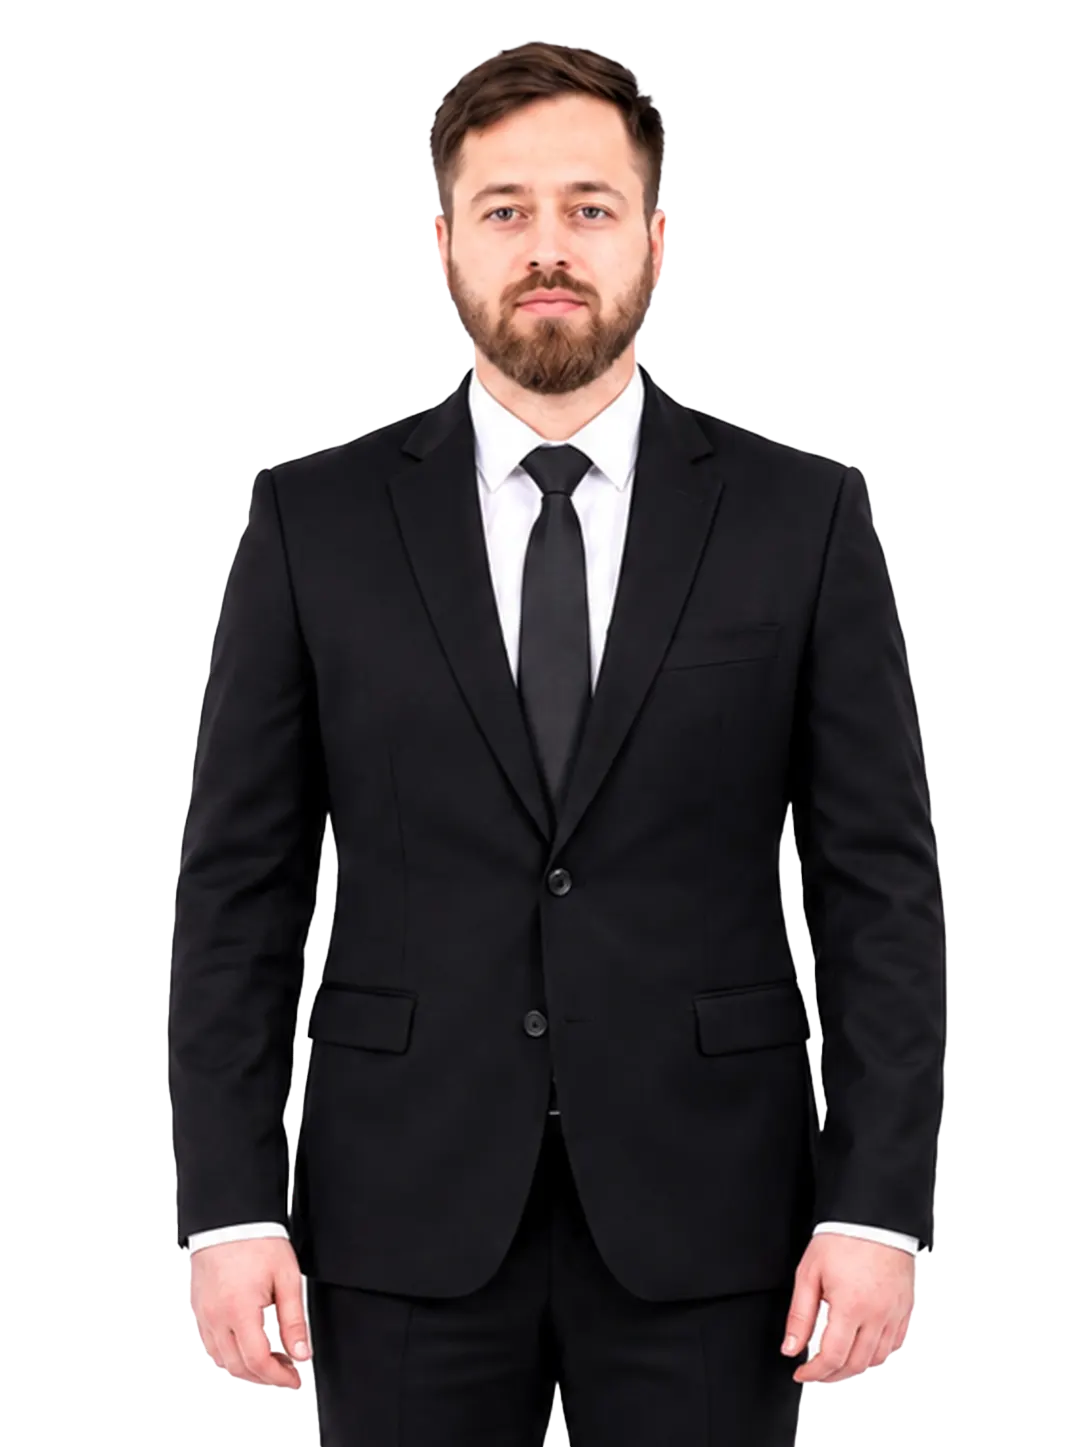
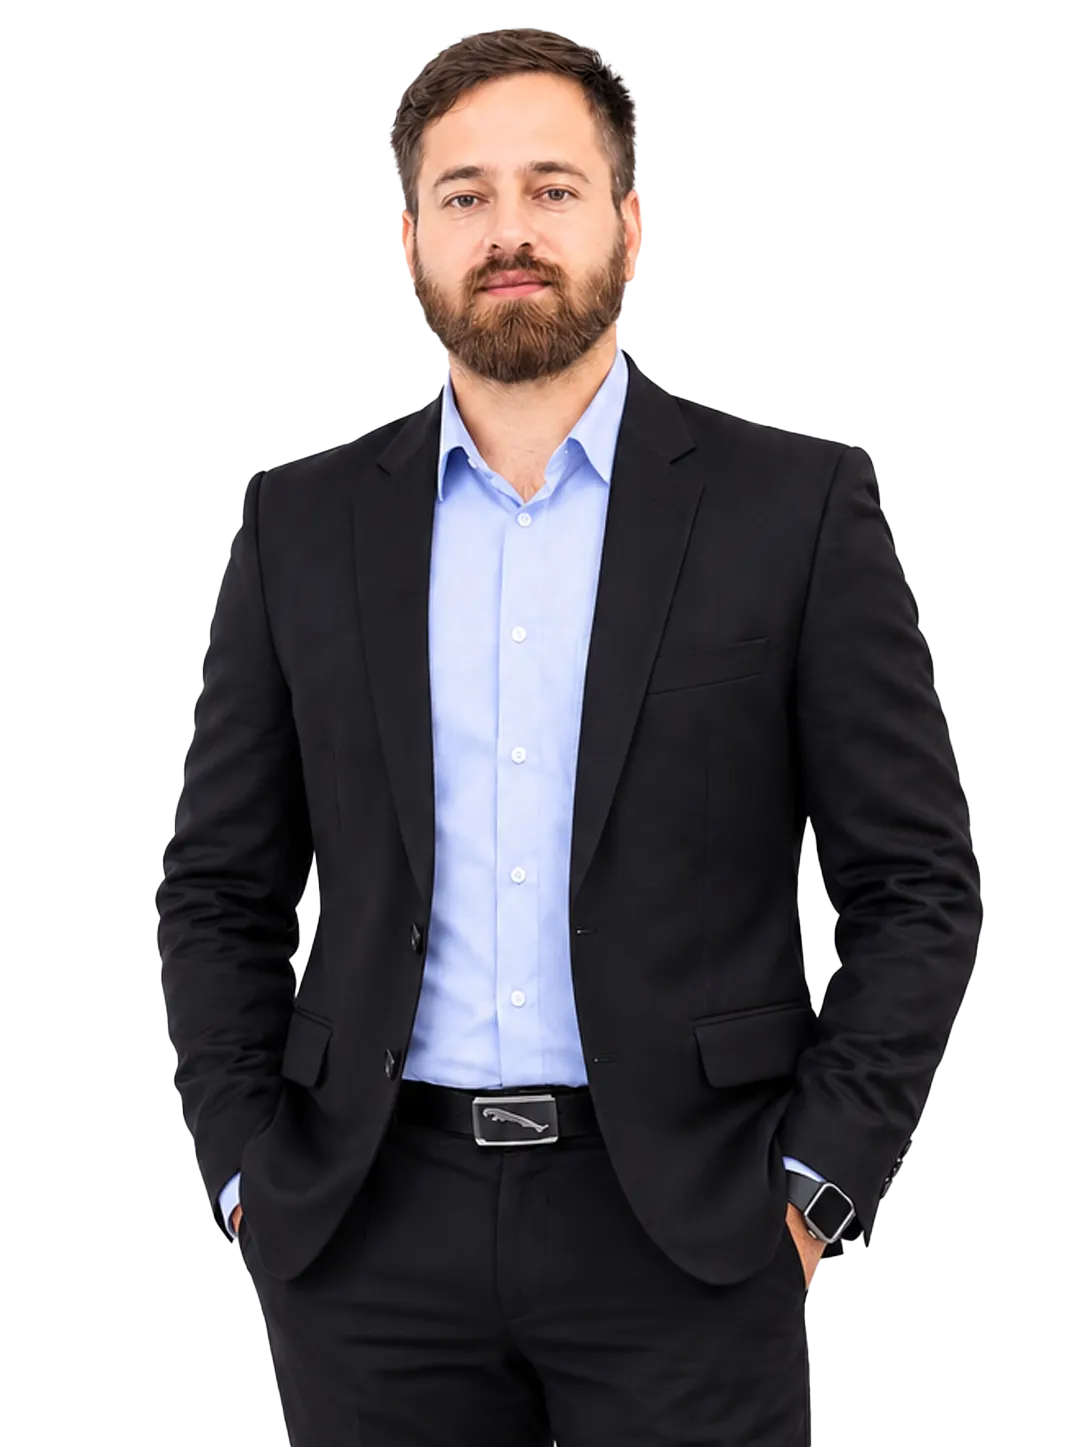
hero section updated

diff --git a/index.html b/index.html
@@ -60,22 +60,22 @@ Radiation Technology • ECG Technology & many more</p>
        <div>
         <img alt="Dual degree graduation cap" decoding="async" height="67" loading="eager" src="images/globe-icon.png" width="67">
         <p>
-         <strong>350+</strong>
+         <strong style="font-size: 25px;">350+</strong>
          <span>Global Academic Partnerships</span>
         </p>
        </div>
        <div>
         <img alt="Scholarship and fee discount" decoding="async" height="67" loading="eager" src="images/student-icon.avif" width="67">
         <p>
-         <strong>Get Up To 100%</strong>
+         <strong style="font-size: 25px;">Get Up To 100%</strong>
          <span>Fee Discount</span>
         </p>
        </div>
        <div>
         <img alt="Expert faculty and industry guidance" decoding="async" height="67" loading="eager" src="images/quality-icon.avif" width="67">
         <p>
-         <strong>7 MPT</strong>
-         <span>Specialisations to Choose From</span>
+         <strong style="font-size: 25px;">12+</strong>
+         <span>Courses Offered</span>
         </p>
        </div>
       </div>
@@ -291,7 +291,7 @@ Radiation Technology • ECG Technology & many more</p>
                                           <h2>
                                                  Build Your Future in Allied and Healthcare Sciences <span>Strong Placements. Diverse Programmes.</span>
                                           </h2>
-                                          <p>Explore rewarding career opportunities in **Allied and Healthcare Sciences** with hands-on clinical training, expert faculty guidance, modern healthcare facilities, practical learning experiences, and industry-oriented programmes designed to develop skilled, compassionate, and confident Allied and Healthcare professionals ready to make a difference in healthcare.
+                                          <p>Explore rewarding career opportunities in Allied and Healthcare Sciences with hands-on clinical training, expert faculty guidance, modern healthcare facilities, practical learning experiences, and industry-oriented programmes designed to develop skilled, compassionate, and confident Allied and Healthcare professionals ready to make a difference in healthcare.
 </p>
                                    </div>
                                    <div aria-label="Law placement highlights" class="package-grid law-placement-metrics">
